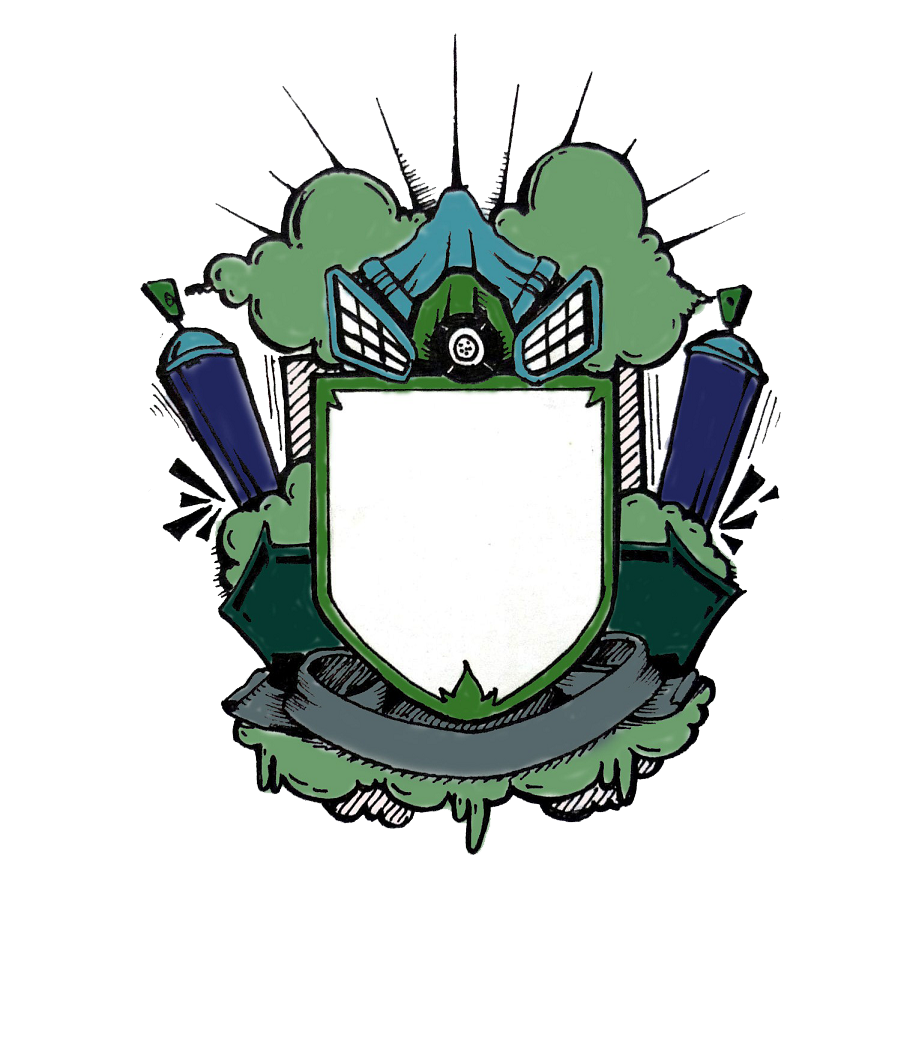
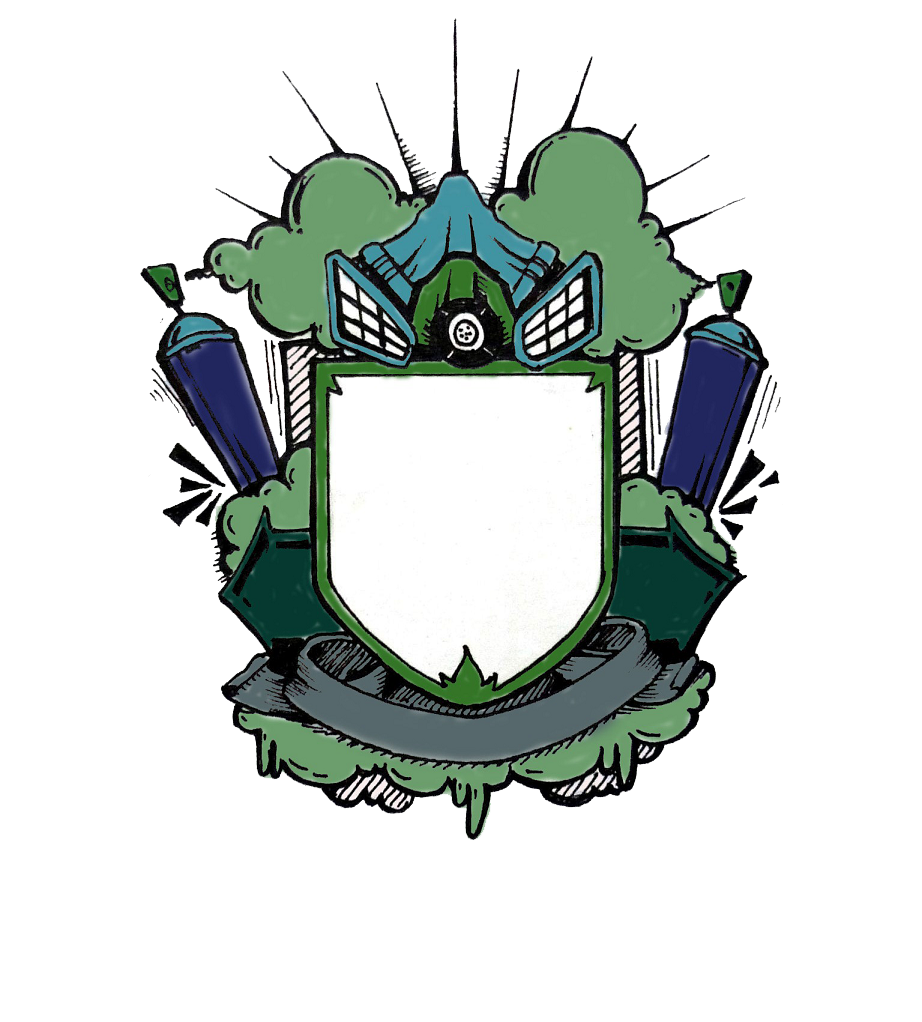
Update to COA

Changed region(s): [[0.1518, 0.0607, 0.8503, 0.819], [0.3948, 0.091, 0.4252, 0.1213]]

diff --git a/Oxygen_test2/application/views/portfolio/coa_drawCOA.php b/Oxygen_test2/application/views/portfolio/coa_drawCOA.php
@@ -62,8 +62,8 @@ if ($COAStatus == '') {
 
     imagecopyresampled($target_img, $source_img, $x, $y, 0, 0, $valueWidth, $valueHeight, $size[0], $size[1]);
     imagecopyresampled($target_img, $source_img1, $valueWidth + $x + 15, $y, 0, 0, $valueWidth, $valueHeight, $size1[0], $size1[1]);
-    imagecopyresampled($target_img, $source_img2, $x, $valueHeight + $y, 0, 0, $valueWidth, $valueHeight, $size2[0], $size2[1]);
-    imagecopyresampled($target_img, $source_img3, $valueWidth + $x + 15, $valueHeight + $y, 0, 0, $valueWidth, $valueHeight, $size3[0], $size3[1]);
+    imagecopyresampled($target_img, $source_img2, $x, $valueHeight + $y+15, 0, 0, $valueWidth, $valueHeight, $size2[0], $size2[1]);
+    imagecopyresampled($target_img, $source_img3, $valueWidth + $x + 15, $valueHeight + $y+15, 0, 0, $valueWidth, $valueHeight, $size3[0], $size3[1]);
 
 
 
